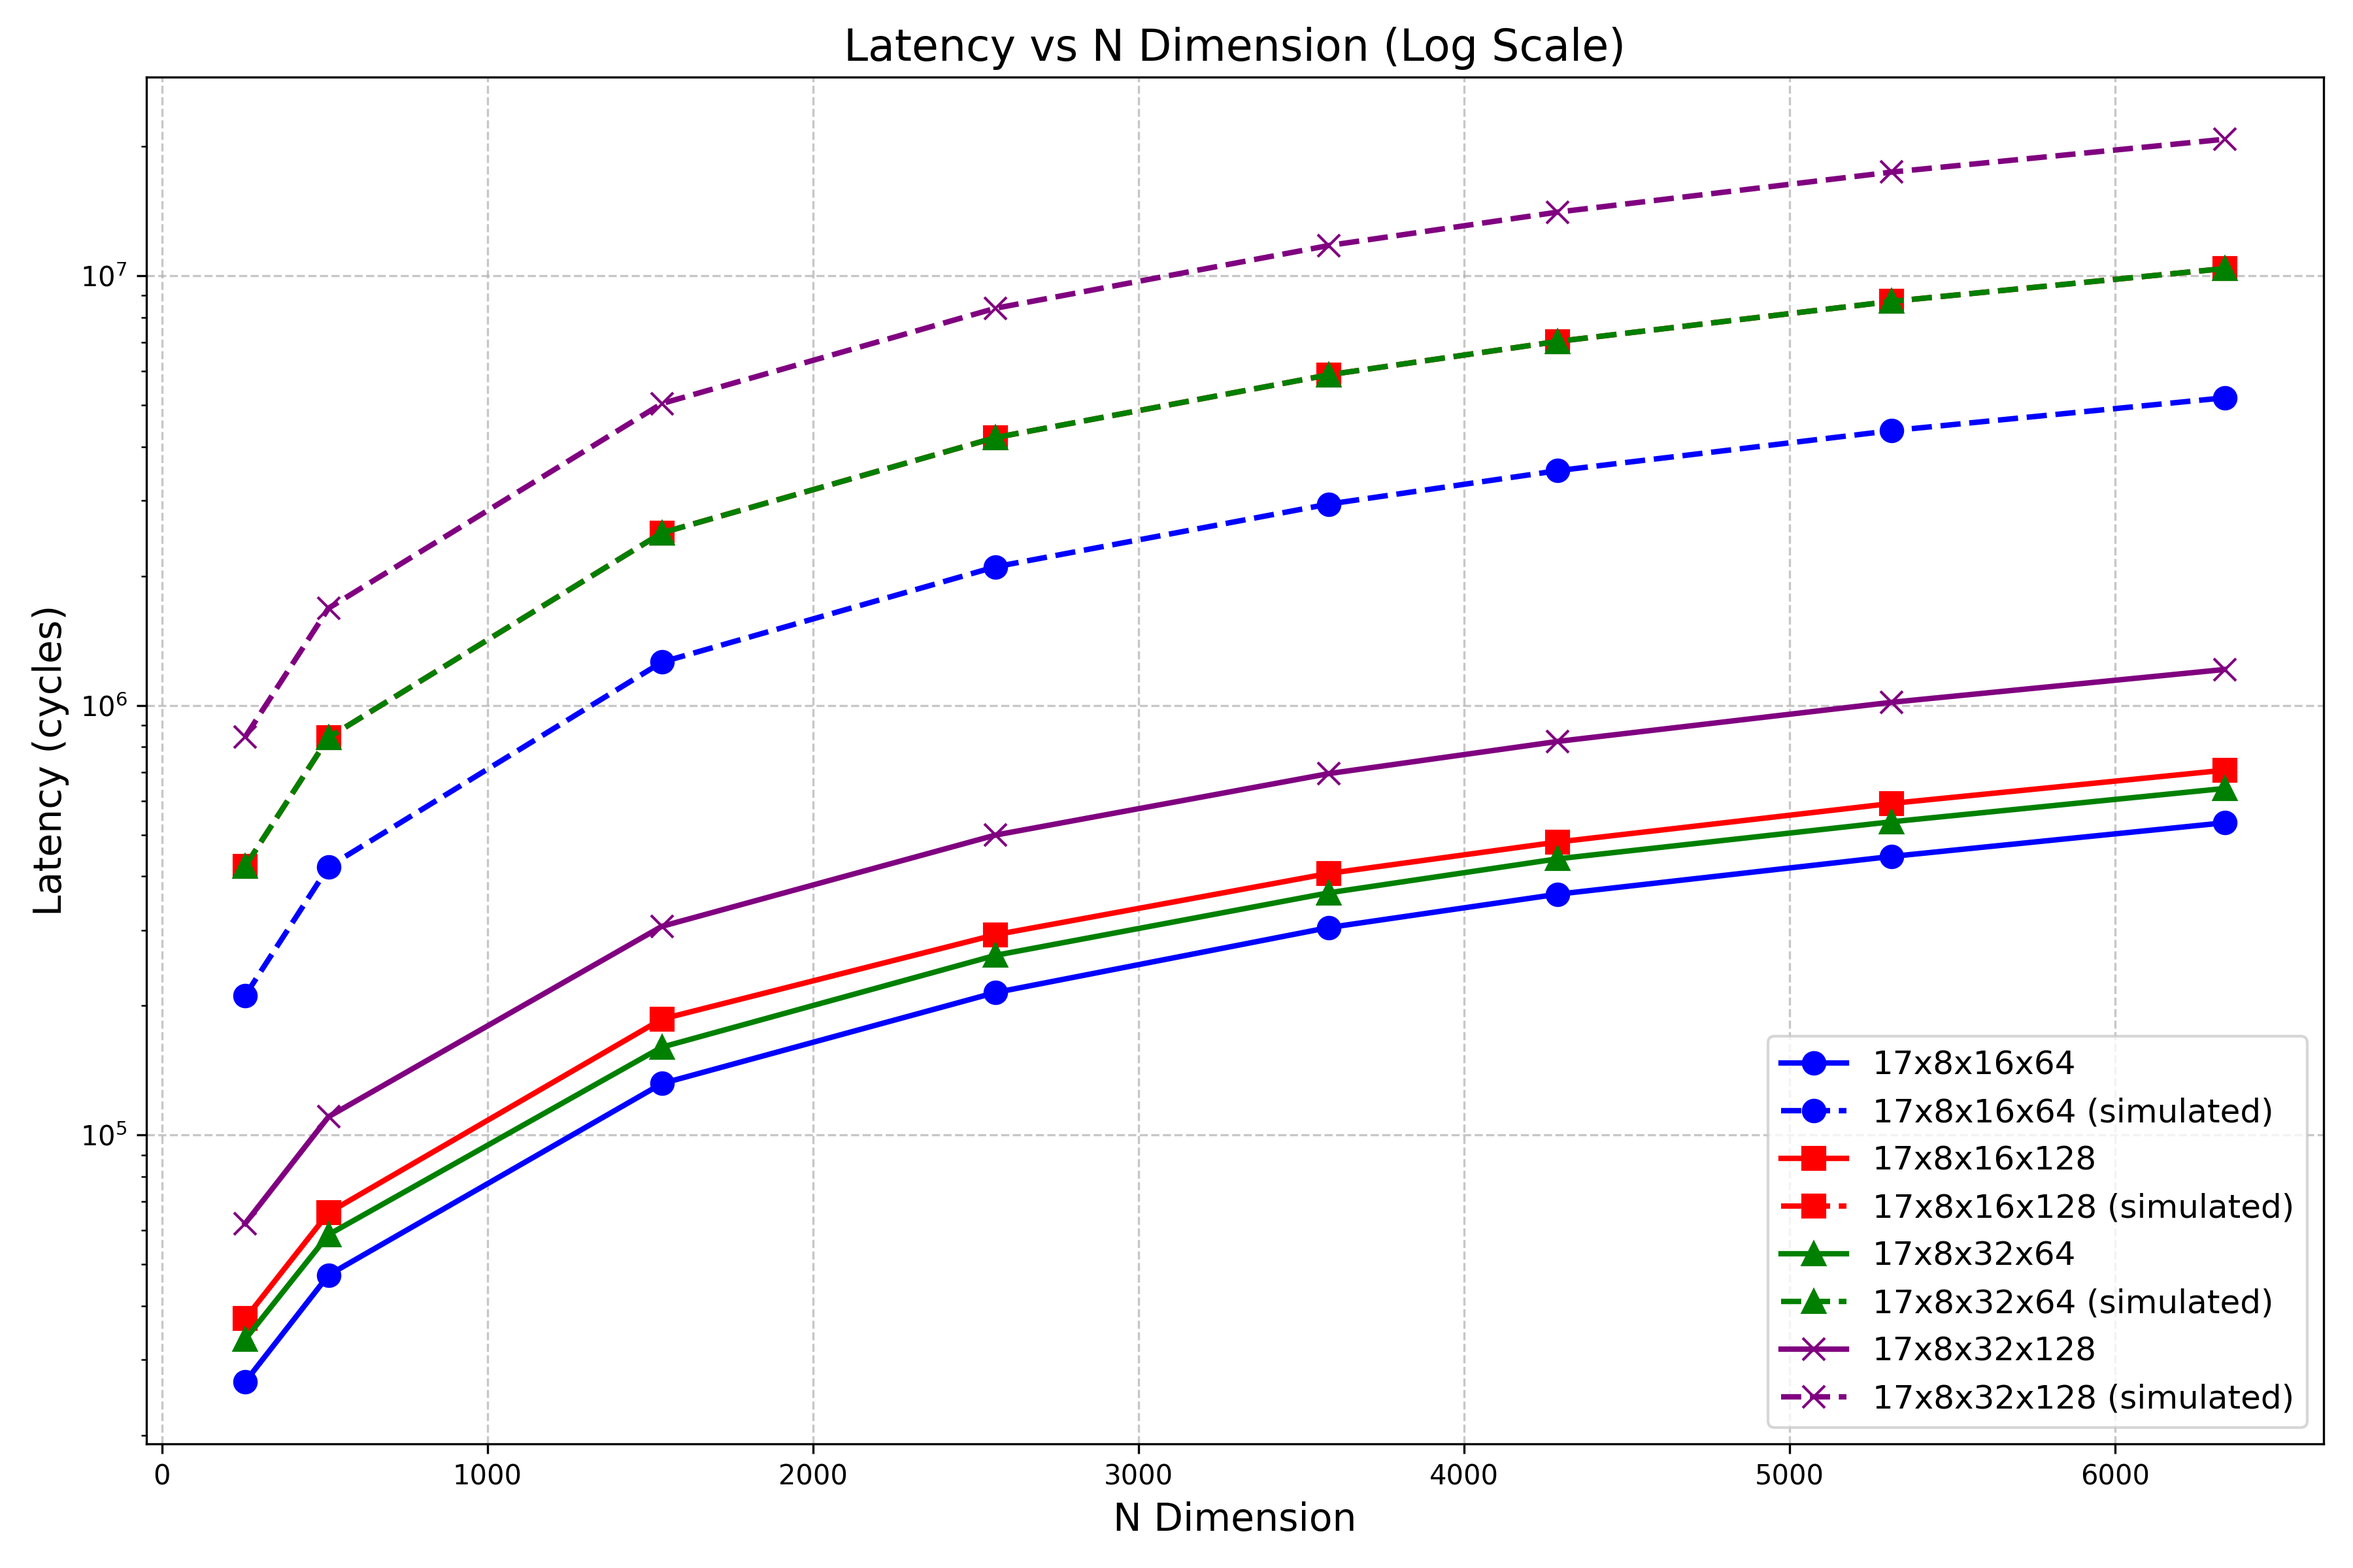
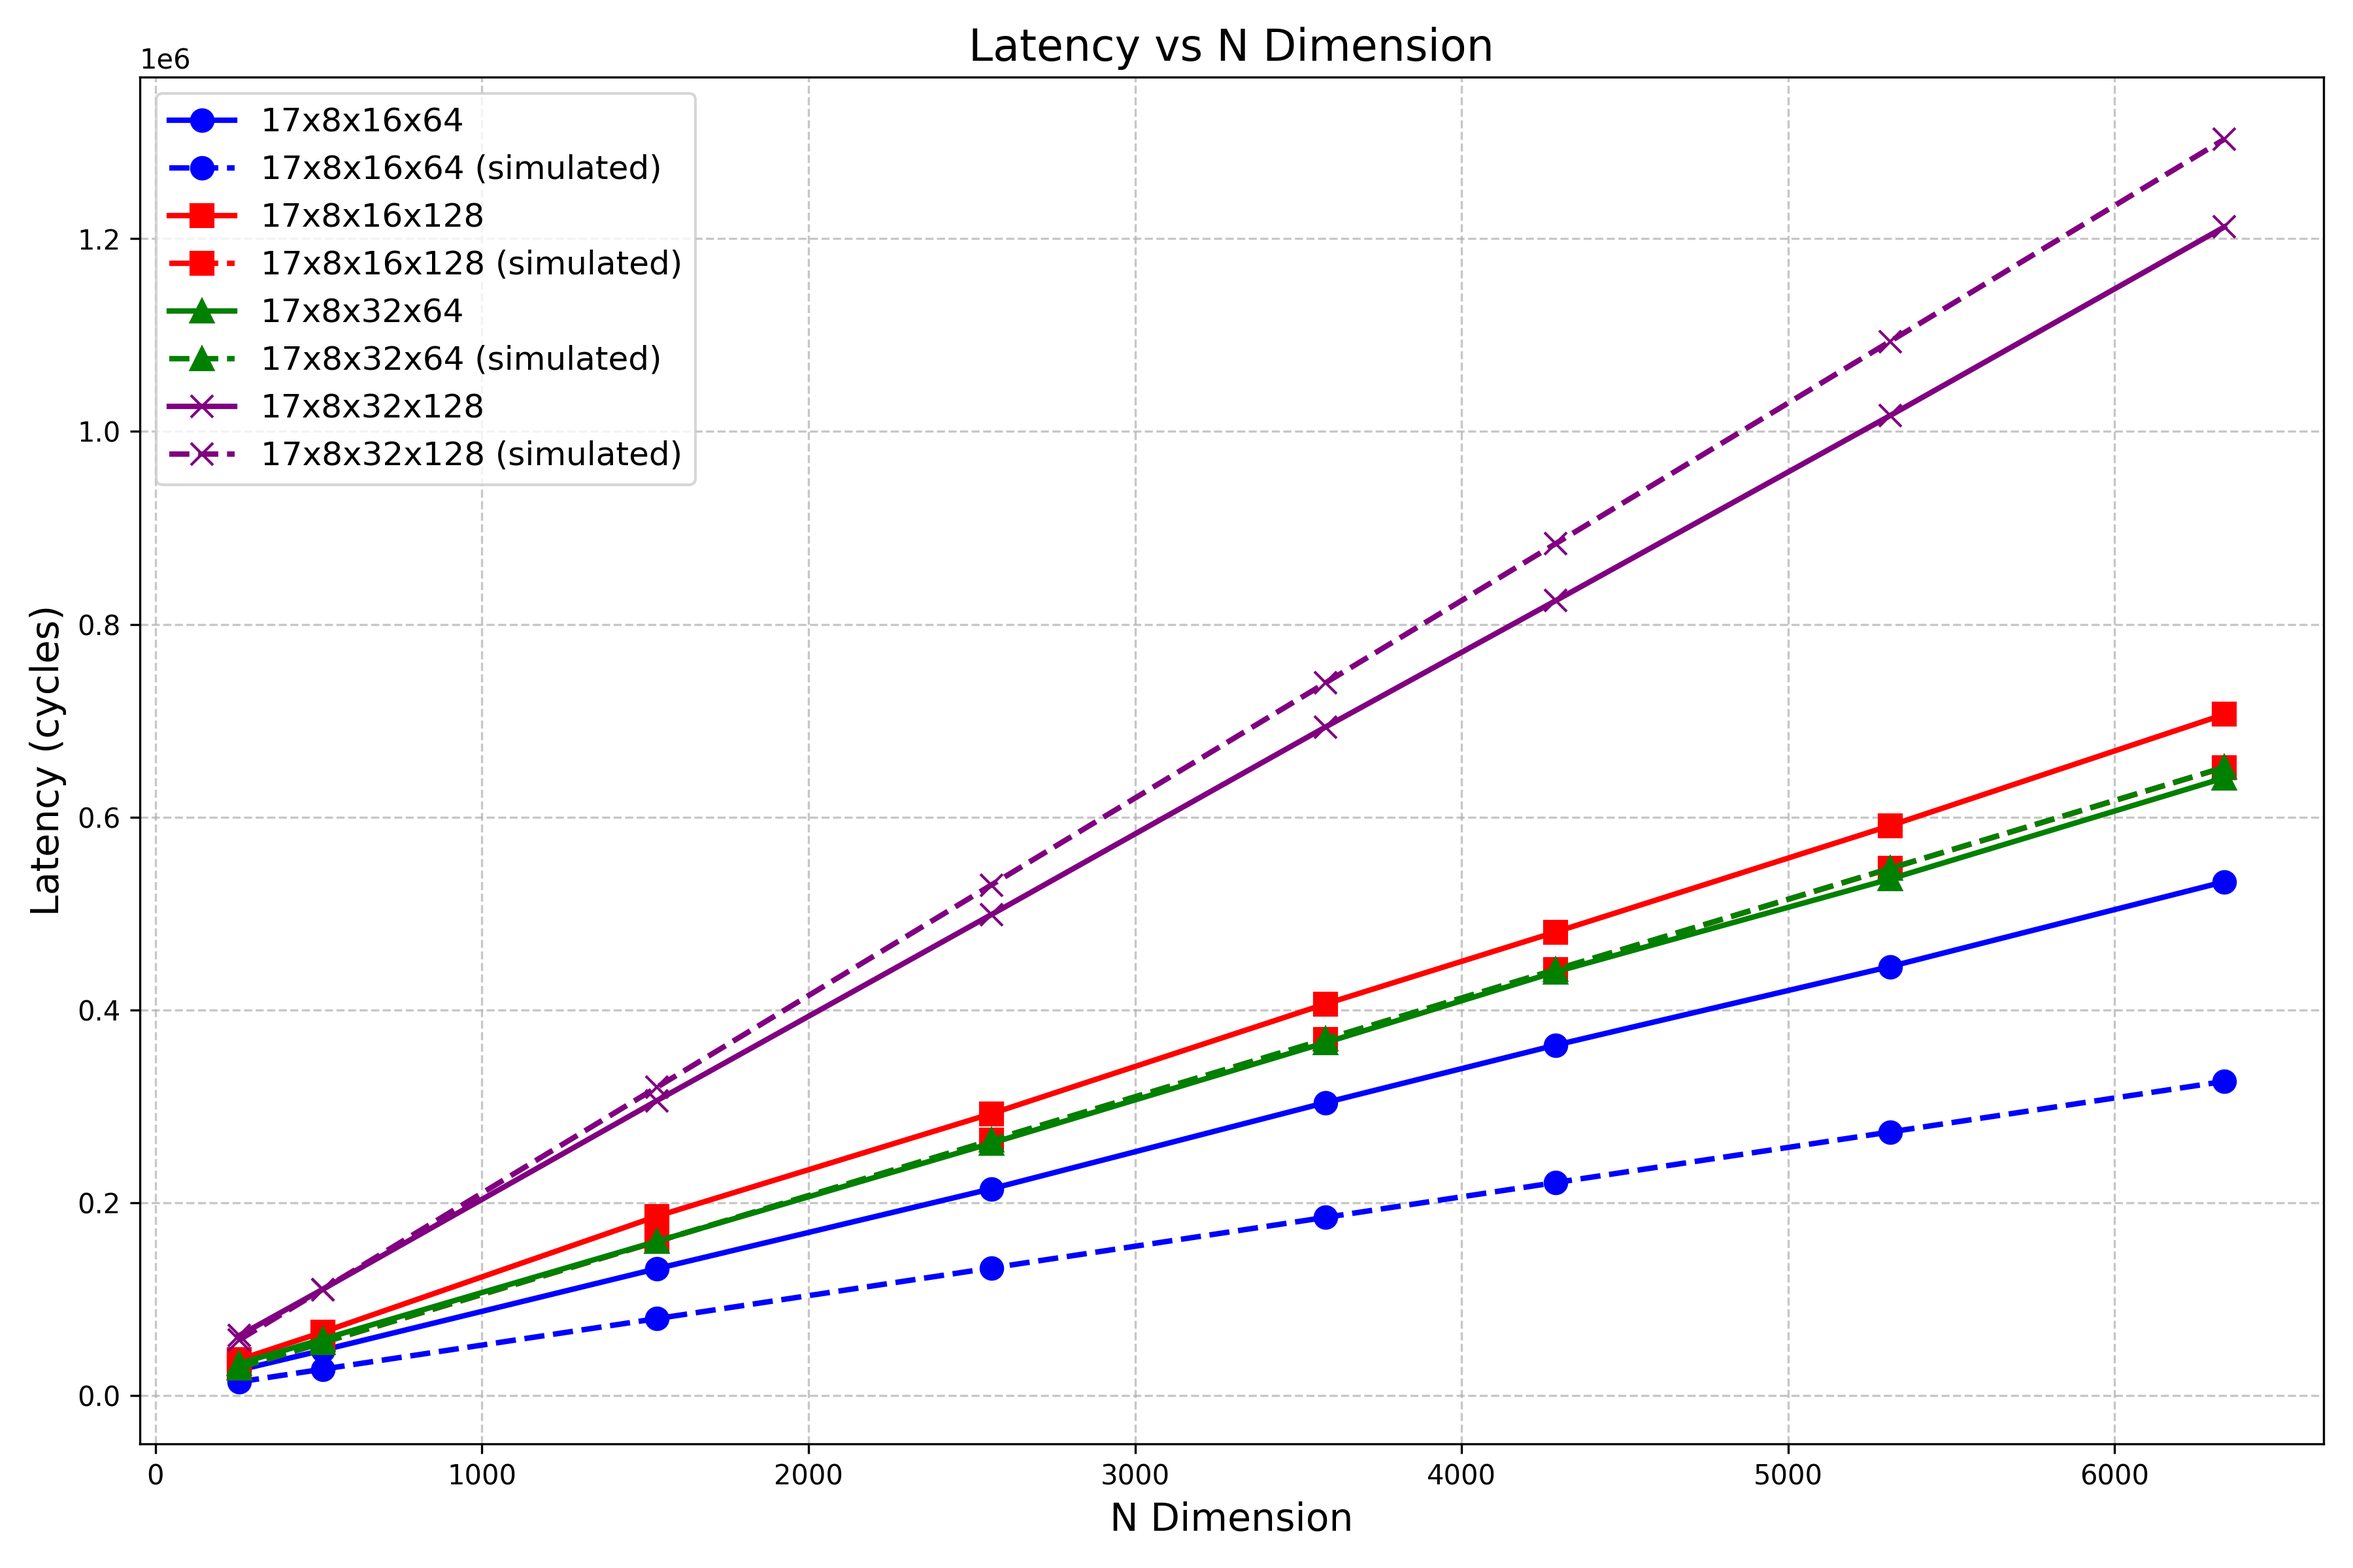
Update figures

diff --git a/kernels/test_04_15_09_58/plot_scripts/plot_latency_compare.py b/kernels/test_04_15_09_58/plot_scripts/plot_latency_compare.py
@@ -1,0 +1,118 @@
+import matplotlib.pyplot as plt
+import pandas as pd
+import numpy as np
+import re
+import sys
+import os
+
+def extract_n(shape_str):
+    """Extract the N dimension (4th value) from the shape string"""
+    parts = shape_str.split('x')
+    if len(parts) >= 5:
+        return int(parts[3])
+    return 0
+
+def load_and_process_file(filename):
+    """Load a shape-latency CSV file and extract the N dimension"""
+    df = pd.read_csv(filename)
+    
+    # Extract N dimension from shape string
+    df['N'] = df['shape'].apply(extract_n)
+    
+    # Sort by N dimension
+    df = df.sort_values('N')
+    
+    return df
+
+def plot_latency_curves(files, output_file="latency_plot.png"):
+    """Plot latency vs N curves for multiple files"""
+    plt.figure(figsize=(12, 8))
+    
+    # Define colors and markers for different curves
+    colors = ['blue', 'red', 'green', 'purple']
+    markers = ['o', 's', '^', 'x']
+    
+    # min_latency = float('inf')
+    # max_latency = 0
+    
+    for i, file in enumerate(files):
+        if i >= 4:  # Limit to 4 files
+            print(f"Warning: Only processing the first 4 files. Skipping {file}")
+            continue
+            
+        if not os.path.exists(file):
+            print(f"Error: File {file} does not exist")
+            continue
+            
+        # Get the filename without extension for the legend
+        label = os.path.splitext(os.path.basename(file))[0].split('_')[1]
+        
+        # Load and process data
+        try:
+            df = load_and_process_file(file)
+            
+            # Update min/max latency
+            # min_latency = min(min_latency, df['latency'].min())
+            # max_latency = max(max_latency, df['latency'].max())
+            
+            # Plot the curve
+            plt.plot(df['N'], df['latency'], 
+                     marker=markers[i], 
+                     color=colors[i], 
+                     linestyle='-', 
+                     linewidth=2, 
+                     markersize=8,
+                     label=label)
+            
+            sim_file = file.replace('output', 'simulated')
+            df_sim = load_and_process_file(sim_file)
+            plt.plot(df_sim['N'], df_sim['latency'],
+                        marker=markers[i], 
+                        color=colors[i], 
+                        linestyle='--', 
+                        linewidth=2, 
+                        markersize=8,
+                        label=f"{label} (simulated)")
+            
+        except Exception as e:
+            print(f"Error processing file {file}: {e}")
+    
+    # Set y-axis limits to the provided values
+    # plt.ylim(26660, 1212093)  # Using the min and max values provided
+    
+    # Add labels and legend
+    plt.xlabel('N Dimension', fontsize=14)
+    plt.ylabel('Latency (cycles)', fontsize=14)
+    plt.title('Latency vs N Dimension', fontsize=16)
+    plt.grid(True, linestyle='--', alpha=0.7)
+    plt.legend(fontsize=12)
+    # Set y-axis to logarithmic scale
+    # plt.yscale('log')
+    
+    # # Add labels and legend
+    # plt.xlabel('N Dimension', fontsize=14)
+    # plt.ylabel('Latency (cycles)', fontsize=14)
+    # plt.title('Latency vs N Dimension (Log Scale)', fontsize=16)
+    # plt.grid(True, linestyle='--', alpha=0.7)
+    # plt.legend(fontsize=12)
+    
+    # Save the plot
+    plt.tight_layout()
+    plt.savefig(output_file, dpi=300)
+    print(f"Plot saved as {output_file}")
+
+
+def main():
+    """Main function to parse command line arguments and plot data"""
+    if len(sys.argv) < 3 or len(sys.argv) > 6:
+        print("Usage: python plot_latency.py output.png file1.csv [file2.csv file3.csv file4.csv]")
+        sys.exit(1)
+
+    # Get the files from command line arguments
+    files = sys.argv[2:]
+    
+    # Plot the latency curves
+    plot_latency_curves(files, output_file=sys.argv[1])
+
+if __name__ == "__main__":
+    main()

diff --git a/kernels/test_04_15_09_58/plot_scripts/plot_rel_error.py b/kernels/test_04_15_09_58/plot_scripts/plot_rel_error.py
@@ -32,9 +32,6 @@ def plot_latency_curves(files, output_file="latency_plot.png"):
     colors = ['blue', 'red', 'green', 'purple']
     markers = ['o', 's', '^', 'x']
     
-    # min_latency = float('inf')
-    # max_latency = 0
-    
     for i, file in enumerate(files):
         if i >= 4:  # Limit to 4 files
             print(f"Warning: Only processing the first 4 files. Skipping {file}")
@@ -51,12 +48,11 @@ def plot_latency_curves(files, output_file="latency_plot.png"):
         try:
             df = load_and_process_file(file)
             
-            # Update min/max latency
-            # min_latency = min(min_latency, df['latency'].min())
-            # max_latency = max(max_latency, df['latency'].max())
-            
+            sim_file = file.replace('output', 'simulated')
+            df_sim = load_and_process_file(sim_file)
             # Plot the curve
-            plt.plot(df['N'], df['latency'], 
+            # Plot the curve - calculate percentage error
+            plt.plot(df['N'], 100 * (df_sim['latency'] - df['latency']) / df['latency'], 
                      marker=markers[i], 
                      color=colors[i], 
                      linestyle='-', 
@@ -64,37 +60,19 @@ def plot_latency_curves(files, output_file="latency_plot.png"):
                      markersize=8,
                      label=label)
             
-            sim_file = file.replace('output', 'simulated')
-            df_sim = load_and_process_file(sim_file)
-            plt.plot(df_sim['N'], df_sim['latency'],
-                        marker=markers[i], 
-                        color=colors[i], 
-                        linestyle='--', 
-                        linewidth=2, 
-                        markersize=8,
-                        label=f"{label} (simulated)")
-            
         except Exception as e:
             print(f"Error processing file {file}: {e}")
     
-    # Set y-axis limits to the provided values
-    # plt.ylim(26660, 1212093)  # Using the min and max values provided
-    
-    # Add labels and legend
-    # plt.xlabel('N Dimension', fontsize=14)
-    # plt.ylabel('Latency (cycles)', fontsize=14)
-    # plt.title('Latency vs N Dimension', fontsize=16)
-    # plt.grid(True, linestyle='--', alpha=0.7)
-    # plt.legend(fontsize=12)
-    # Set y-axis to logarithmic scale
-    plt.yscale('log')
-    
-    # Add labels and legend
+    # Add labels and legend with percentage formatting
     plt.xlabel('N Dimension', fontsize=14)
-    plt.ylabel('Latency (cycles)', fontsize=14)
-    plt.title('Latency vs N Dimension (Log Scale)', fontsize=16)
+    plt.ylabel('Error (%)', fontsize=14)  # Updated label
+    plt.title('(Sim - Real) / Real vs N Dimension', fontsize=16)  # Updated title
     plt.grid(True, linestyle='--', alpha=0.7)
     plt.legend(fontsize=12)
+    
+    # Format y-axis as percentage
+    from matplotlib.ticker import PercentFormatter
+    plt.gca().yaxis.set_major_formatter(PercentFormatter())
     
     # Save the plot
     plt.tight_layout()

diff --git a/kernels/test_04_15_09_58/plot_scripts/plot_multi_latency.py b/kernels/test_04_15_09_58/plot_scripts/plot_multi_latency.py
@@ -82,7 +82,6 @@ def plot_latency_curves(files, output_file="latency_plot.png"):
     plt.savefig(output_file, dpi=300)
     print(f"Plot saved as {output_file}")
 
-
 def main():
     """Main function to parse command line arguments and plot data"""
     if len(sys.argv) < 3 or len(sys.argv) > 6:

diff --git a/kernels/test_04_15_09_58/README.md b/kernels/test_04_15_09_58/README.md
@@ -11,6 +11,12 @@ python filter_output.py output_details.csv output_attend_ker.csv
 ./sweep_seqlen.sh
 Note: this script appends to the output latency file.
 
-python plot_latency.py profile_results/output.csv profile_results/output.png
+python plot_scripts/plot_latency.py profile_results/output.csv profile_results/output.png
 
-python plot_multi_latency.py profile_results/four_outputs.png profile_results/output_17x8x16x64.csv profile_results/output_17x8x16x128.csv profile_results/output_17x8x32x64.csv profile_results/output_17x8x32x128.csv
+python plot_scripts/plot_multi_latency.py profile_results/four_outputs.png profile_results/output_17x8x16x64.csv profile_results/output_17x8x16x128.csv profile_results/output_17x8x32x64.csv profile_results/output_17x8x32x128.csv
+
+python plot_scripts/plot_multi_latency.py profile_results/four_simulations.png profile_results/simulated_17x8x16x64.csv profile_results/simulated_17x8x16x128.csv profile_results/simulated_17x8x32x64.csv profile_results/simulated_17x8x32x128.csv
+
+python plot_scripts/plot_latency_compare.py profile_results/four_compare.png profile_results/output_17x8x16x64.csv profile_results/output_17x8x16x128.csv profile_results/output_17x8x32x64.csv profile_results/output_17x8x32x128.csv
+
+python plot_scripts/plot_rel_error.py profile_results/four_relative.png profile_results/output_17x8x16x64.csv profile_results/output_17x8x16x128.csv profile_results/output_17x8x32x64.csv profile_results/output_17x8x32x128.csv
